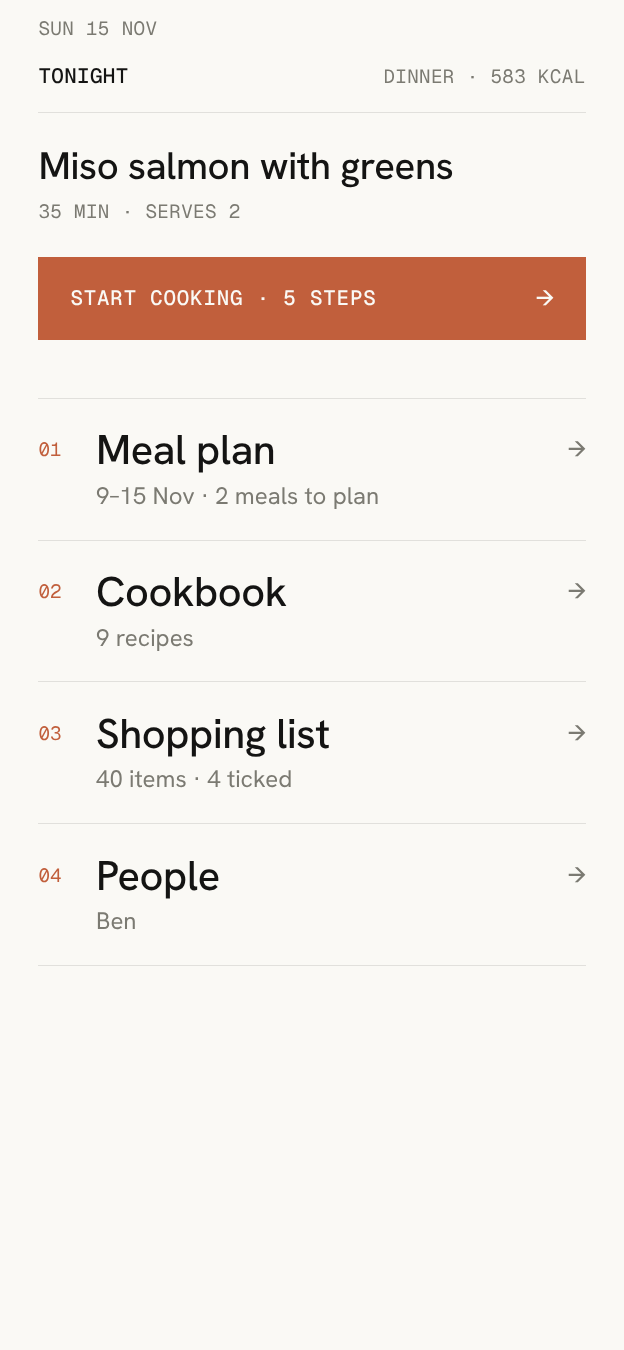
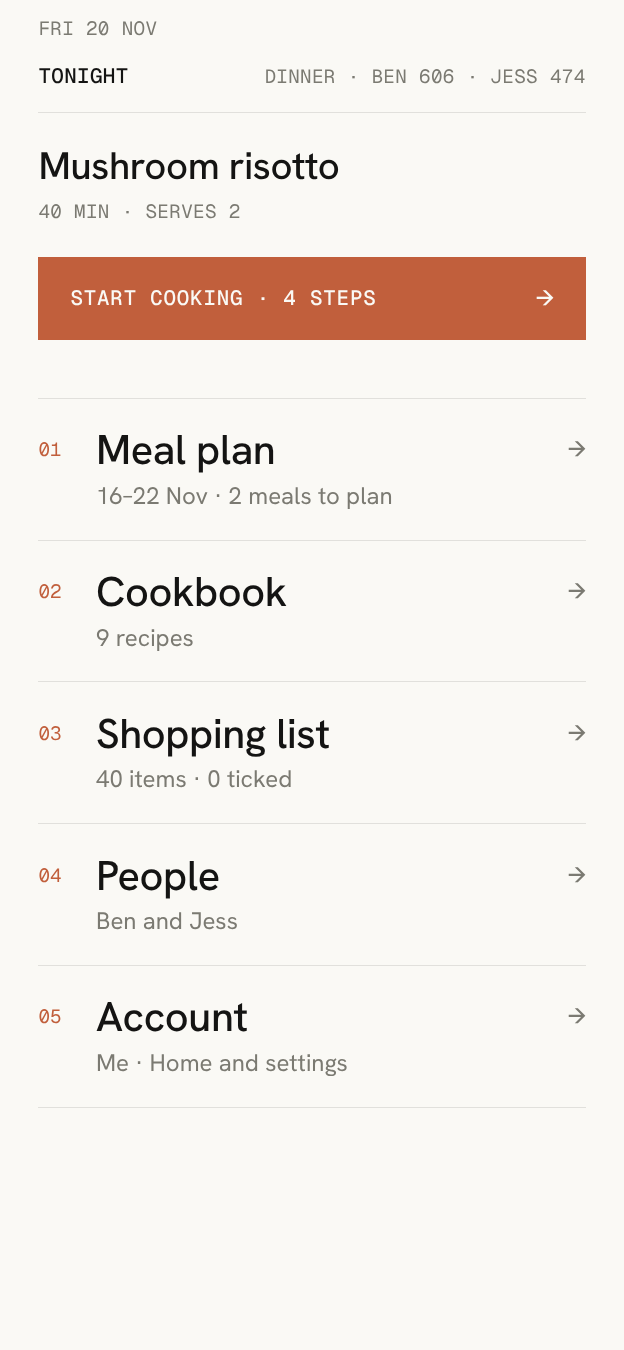
Say that account deletion isn't built yet, and give Keep my account a fallback
Also refresh the Home and People build shots.

diff --git a/apps/mobile/src/app/account/delete.tsx b/apps/mobile/src/app/account/delete.tsx
@@ -19,12 +19,13 @@ import {
 import { router } from "expo-router";
 import { useApiQuery } from "../../store";
 
-// Design mock: there is no delete endpoint yet, so the button does nothing. The counts are live.
+// Design mock: there is no delete endpoint yet, so the button only says so. The counts are live.
 
 export default function DeleteAccount() {
   const recipes = useApiQuery<RecipeSummary[]>(["recipes", ""], "/recipes");
   const people = useApiQuery<Person[]>(["people"], "/people");
   const [typed, setTyped] = useState("");
+  const [tried, setTried] = useState(false);
   const ready = typed.trim().toUpperCase() === "DELETE";
 
   const removed = [
@@ -73,10 +74,15 @@ export default function DeleteAccount() {
         <PrimaryButton
           label="Delete my account"
           disabled={!ready}
-          onPress={() => {}}
+          onPress={() => setTried(true)}
           style={{ marginTop: 24 }}
         />
-        <TextAction label="Keep my account" style={{ marginTop: 18 }} onPress={() => router.back()} />
+        {tried && (
+          <Text variant="label" color="accent" style={{ marginTop: 12 }}>
+            Deleting accounts isn’t built yet. Nothing was deleted.
+          </Text>
+        )}
+        <TextAction label="Keep my account" style={{ marginTop: 18 }} onPress={() => (router.canGoBack() ? router.back() : router.replace("/account"))} />
       </Gutter>
     </Screen>
   );

diff --git a/design/BUILD.md b/design/BUILD.md
@@ -210,7 +210,8 @@ offers "Cancel invite".
 **Delete account** (`/account/delete`). Page head with "It can't be undone", "What goes" with
 four numbered rows (live recipe and people counts), an export prompt, a "Type DELETE to
 confirm" field and a `PrimaryButton` "Delete my account" that stays disabled until it says
-DELETE, then "Keep my account". There is no delete endpoint yet, so the button does nothing.
+DELETE, then "Keep my account". There is no delete endpoint yet, so the button only shows
+"Deleting accounts isn't built yet. Nothing was deleted."
 
 **Sign in** (Connect).
 - **Page head.** "Sign in" with the lede "Your meal plan, cookbook and shopping list, kept up
